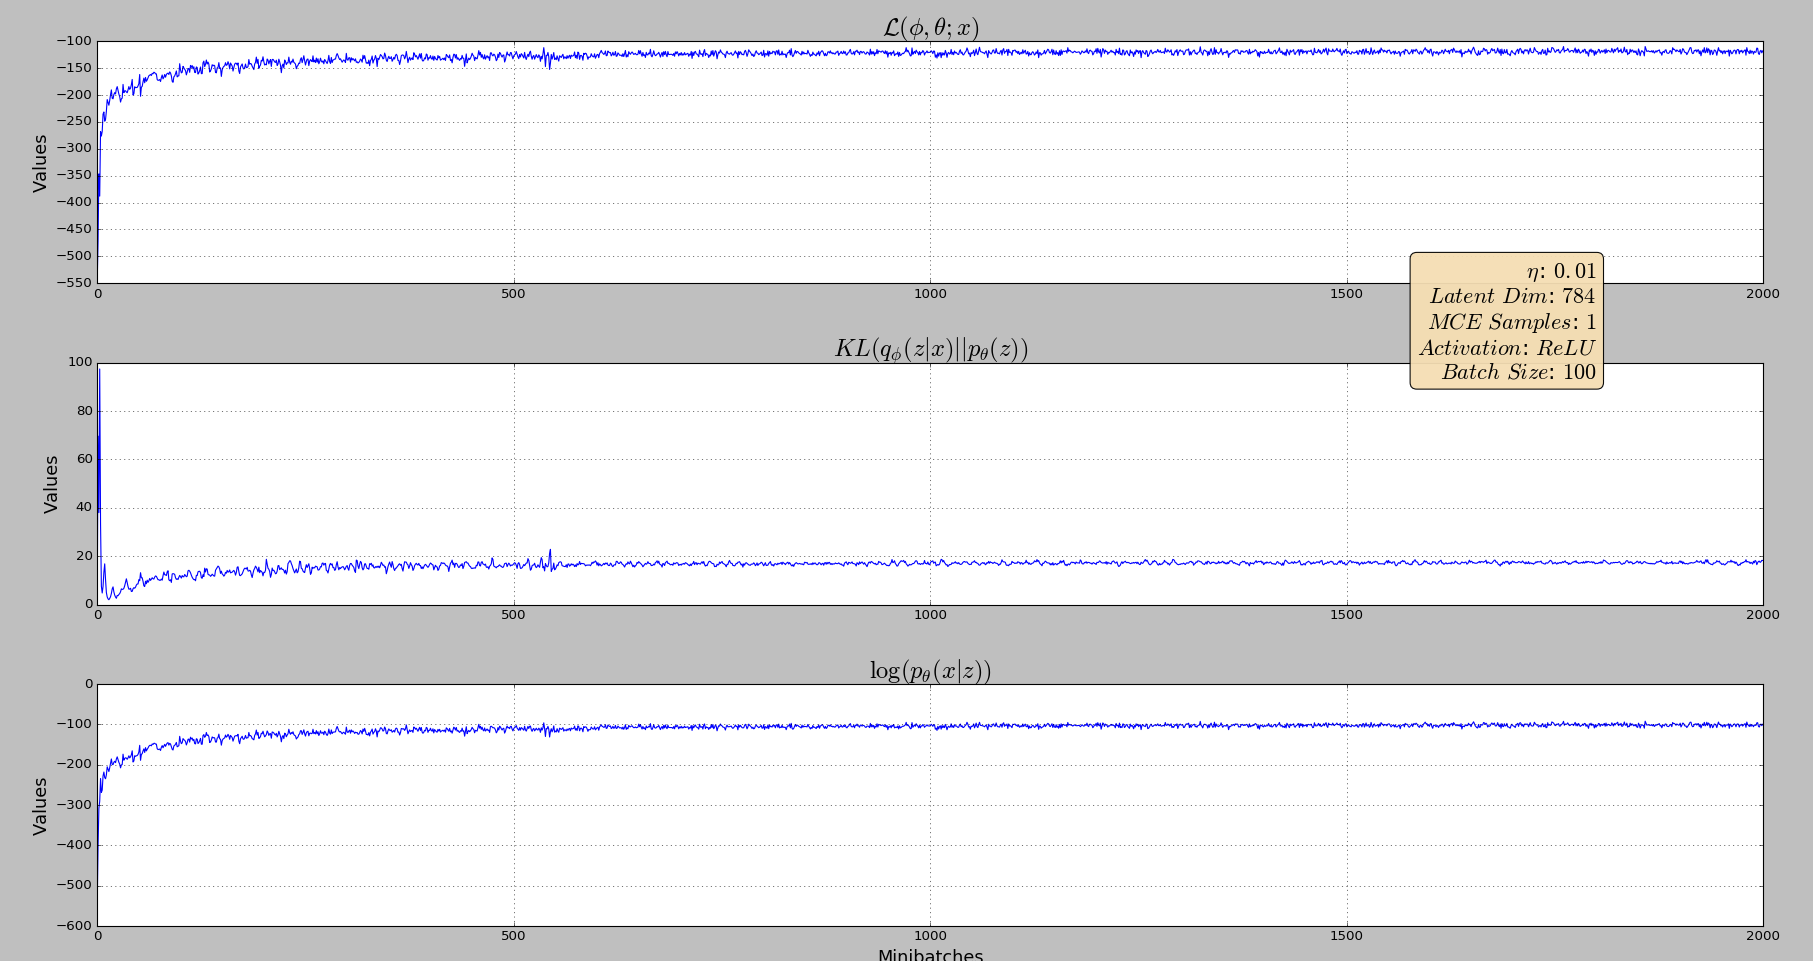
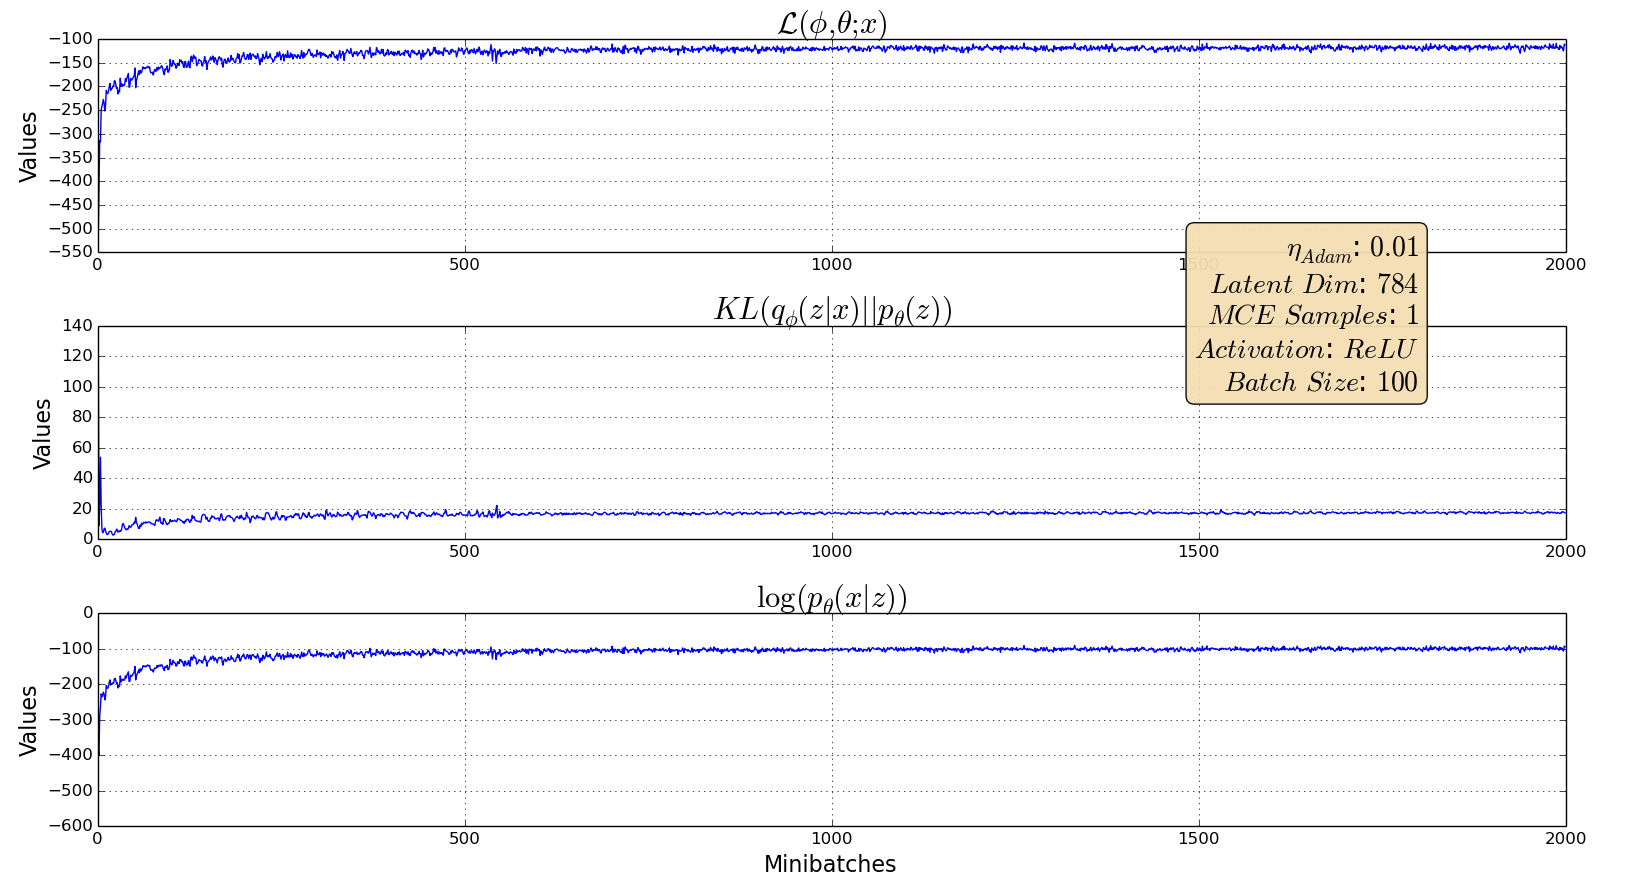
diagnosed exploding gradients; TODO: tf.clip_by_value can't handle Nonetype...

diff --git a/vae.py b/vae.py
@@ -1,6 +1,16 @@
 #!/usr/bin/python
 
 """ vae.py: Run the Variational Auto-encoder.
+
+    TODO:
+        - Incorporate L (MC samples) without blowing up the decoder variable count
+        - There's a blow-up of the log_var output of the encoder which makes
+            the KL-divergence term of the error function go to infinity since there
+            is a var term (where var = e^{log_var}). This seems to be irreversible
+            when the learning rate is high.
+
+            UPDATE: The network weights seem to be such that at the beginning, there
+            is high variance output (exploding gradients when NN still malleable)
 """
 
 __author__ = "shraman-rc"
@@ -45,7 +55,6 @@ sigma_q = tf.sqrt(var_q)
 
 # Latent space samples w/ reparameterization (z = g(ep,x); ep ~ p(ep))
 #   Note: Element-wise univariate Gaussian sampling <=> multivariate Gaussian sampling
-# TODO: Introduce L later here
 ep = tf.random_normal([TRAIN["batch_size"], DIMS["latent"]], mean=0, stddev=1)
 z_batch = mu_q + sigma_q*ep # one latent per datapoint (MxJ)
 
@@ -56,7 +65,7 @@ decoder = BernoulliMLP(z_batch, ARCH["decoder"]["n_units"], DIMS["data"])
 #   doesn't overfit. The closed-form eq. is derived in [1]: Appedix B
 # TODO: Why would overfitting be a problem in the auto-encoding scenario? Wouldn't
 #   overfitting lead to a better likelihood lower bound measure used in [1]'s experiments?
-KL_regularizer = 0.5 * tf.reduce_sum(1 + log_var_q - mu_q**2 - var_q, 1)
+KL_regularizer = 0.5 * tf.reduce_sum(1 + log_var_q - tf.square(mu_q) - var_q, 1)
 
 # The 'reconstruction error' (predictive likelihood): log p_theta(x_batch|z)
 # TODO: Try a different loss function? Cross entropy?
@@ -78,7 +87,16 @@ elif OPT["type"].lower() == "adam":
 
 # Notice that we are minimizing the negative (i.e. maximizing) the variational
 #   lower bound
-train_op = optimizer.minimize(-ELBO_estimate)
+#train_op = optimizer.minimize(-ELBO_estimate)
+#vi_train_op = optimizer.minimize(-KL_regularizer)
+#ll_train_op = optimizer.minimize(-reconstr_err)
+# ...with clipped gradients:
+gvs = optimizer.compute_gradients(-ELBO_estimate)
+capped_gvs = gvs
+#capped_gvs = [(tf.clip_by_value(grad, -OPT["max_grad"], OPT["max_grad"]), var)
+#                for grad, var in gvs]
+grads = [grad for grad, var in capped_gvs]
+train_op = optimizer.apply_gradients(capped_gvs)
 
 # Train on MNIST
 T = TRAIN["n_iters"]
@@ -90,31 +108,41 @@ LLs = np.zeros(T)
 
 with tf.Session() as sess:
     sess.run(tf.initialize_all_variables())
-    # Train TODO: Move into MLP class
     iters = xrange(T)
+
+    # Train TODO: Move into MLP class
     for t in iters:
         cl.secho('Minibatch {}'.format(t), fg='green', bold=False)
         batch = mnist.train.next_batch(TRAIN["batch_size"])
-        _, ELBO, ll, neg_KL, mu, log_var, p = sess.run(
-            [train_op, ELBO_estimate, reconstr_err, KL_regularizer, mu_q, log_var_q, decoder.out_params.p],
+        _, ELBO, ll, neg_KL, mu, log_var, epsilon, gradients = sess.run(
+            [train_op, ELBO_estimate, reconstr_err, KL_regularizer, mu_q, log_var_q, ep, grads[0]],
             feed_dict={x_batch: batch[0]})
-        ELBO, neg_KL, ll, mu, log_var, p = \
+       # _, ELBO, ll, neg_KL, mu, log_var, epsilon = sess.run(
+       #     [vi_train_op, ELBO_estimate, reconstr_err, KL_regularizer, mu_q, log_var_q, ep],
+       #     feed_dict={x_batch: batch[0]})
+
+        # Perform some sort of reductions to be able to print
+        ELBO, neg_KL, ll, mu, log_var, epsilon, gradients = \
             (np.mean(ELBO),
              np.mean(neg_KL),
              np.mean(ll),
-             np.mean(mu,0),
-             np.mean(log_var,0),
-             np.mean(p,0))
+             mu[0],
+             log_var[0],
+             epsilon[0],
+             np.max(gradients))
         ELBOs[t] = ELBO; KLs[t] = -neg_KL; LLs[t] = ll
+
+        # Print stats
         cl.secho(("ELBO (estimate): {}\n"
         "KL Div (prior): {}\n"
         "Likelihood: {}\n"
         "Mu: {}\n"
         "Log var: {}\n"
-        "len(p): {}")
-            .format(ELBO, -neg_KL, ll, mu, log_var, len(p)), fg='cyan')
+        "Epsilon: {}\n"
+        "Grads: {}")
+            .format(ELBO, -neg_KL, ll, mu, log_var, epsilon, gradients), fg='cyan')
 
-    # Tests
+    # Graph
     titles = ["$\mathcal{L}(\phi,\\theta;x)$",
               "$KL(q_{\phi}(z|x)||p_{\\theta}(z))$",
               "$\log(p_{\\theta}(x|z))$"]
@@ -128,6 +156,5 @@ with tf.Session() as sess:
     
 
 # TODO: When implementating Variational Dropout, can use tf.nn.dropout
-# TODO: Record error vectors
 
 cl.secho('Success!', fg='green', bold=True)

diff --git a/tf_helpers.py b/tf_helpers.py
@@ -16,13 +16,5 @@ def xavier(dims):
 def gaussian(dims):
     return tf.random_normal(dims)
 
-#def xavier_init(dims, constant=1):
-#    """ Xavier initialization of network weights"""
-#    # https://stackoverflow.com/questions/33640581/how-to-do-xavier-initialization-on-tensorflow
-#    low = -constant*np.sqrt(6.0/(dims[0] + dims[1]))
-#    high = constant*np.sqrt(6.0/(dims[0] + dims[1]))
-#    return tf.random_uniform((dims[0], dims[1]),
-#                             minval=low, maxval=high,
-#                             dtype=tf.float32)
 def shape(t):
     return t.get_shape().as_list()

diff --git a/likelihoods.py b/likelihoods.py
@@ -36,6 +36,7 @@ def ll_bernoulli(data, rho):
     # 0-1 coefficients x_i) we get our log-likelihood:
     #   \sum_i {x_i*log(rho_i) + (1-x_i)*log(1-rho_i)}
     return tf.reduce_sum(data*tf.log(BARRIER + rho) + (1-data)*tf.log(BARRIER + 1-rho), 1)
+    #return tf.reduce_sum(data*tf.log(BARRIER) + (1-data)*tf.log(BARRIER), 1)
 
 def ll_gaussian(data, mu, log_var):
     '''

diff --git a/README.md b/README.md
@@ -60,6 +60,8 @@ Having approached this from a purely statistical point of view, we can expect be
 
 #### TF-Related Optimizations
 
+During the first few training phases, the optimizers derive large gradients for the network (exploding gradients). This was a problem since even small values of the log of the variance (~18) would result in enormous KL-Divergence blow ups since there is a variance term which, even with an encoder output of just 18, would be e^18. This exponential growth of the objective function does not pair well with exploding gradients. One obvious solution would be to add a larger 'log barrier' so that the log-likelihood term would always have a non-neglible value within the log, therefore counteracting the KL-Divergence term. This, however, would result in early annealing of the objective function so that future iterations would see little to no improvement. To counteract both problems (exploding gradients at the beginning vs. early annealing near the end), we manually compute the gradients and cap their values to something reasonable so that early stages do not result in overflow, but later stages remain unaffected.
+
 ## Work in Progress
 
 ### Applying AEVB to LDA (Topic Models)
@@ -83,4 +85,4 @@ I am currently working on deriving the reparameterization of the variational inf
 
 \[8\] [_Latent Dirichlet Allocation_](http://machinelearning.wustl.edu/mlpapers/paper_files/nips02-AA53.pdf); Blei, Ng, Jordan; NIPS 2002
 
-\[9\] [_Revisiting Natural Gradient for Deep Networks_](http://arxiv.org/pdf/1301.3584v7.pdf); Pascanu, Bengio; 
+\[9\] [_Revisiting Natural Gradient for Deep Networks_](http://arxiv.org/pdf/1301.3584v7.pdf); Pascanu, Bengio; ICLR 2014
